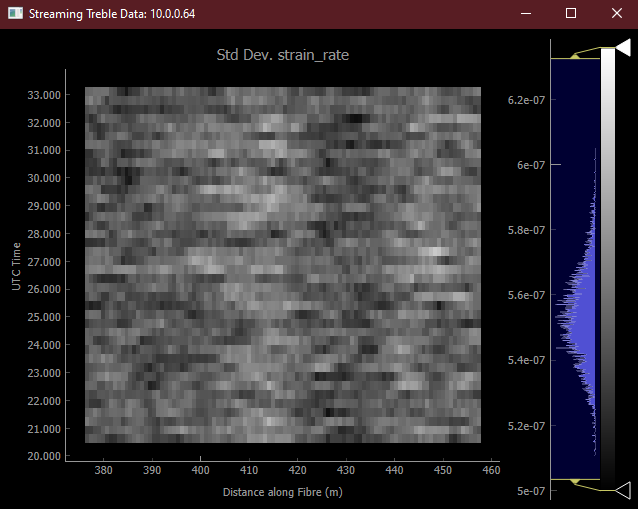
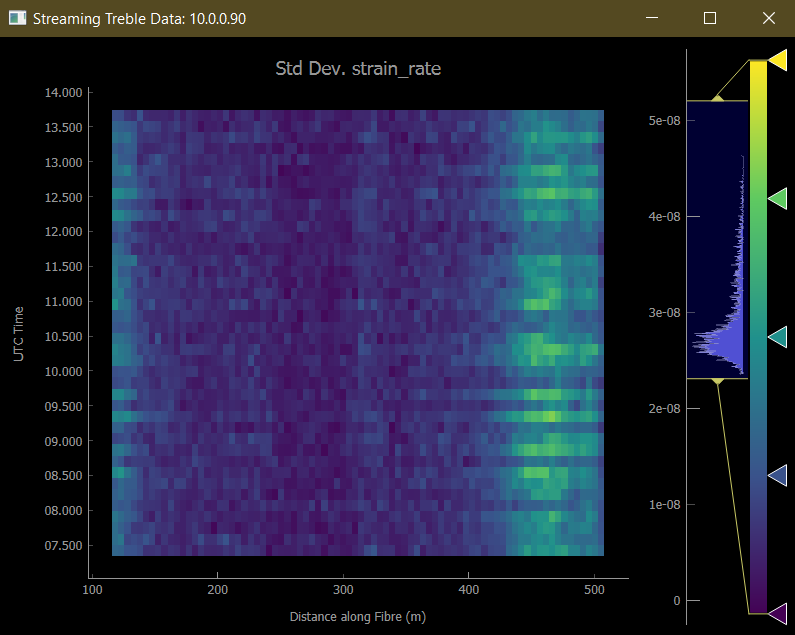
Minor updates to API scripts

diff --git a/API_samples/stream_fft_2d.py b/API_samples/stream_fft_2d.py
@@ -6,7 +6,7 @@ Example script using PYQTGRAPH and Client Functions to plot full raw waveform Te
 ### Pyside6 is preferred.
 
 ### The "treble" API package must be installed to run the Treble API.
-### Download links can be provided by Terra15.
+### Download links are located in the README.md file.
 
 ### SETUP PARAMETERS ################################################################################
 treble_ip = "10.0.0.90"
@@ -58,18 +58,19 @@ def update_plot():
     )
     full = full.reshape((full.shape[0] * full.shape[1], -1)).squeeze()
 
-    f, psd = welch(full, fs=1/md["dT"], nperseg=full.shape[0], axis=0)
-
     if full is None:
         return
+
+    # Calculate Power Spectral Density (PSD)
+    f, psd = welch(full, fs=1/md["dT"], nperseg=full.shape[0], axis=0)
 
     # updates image
     i1.setImage(10*np.log10(psd.transpose()), autoRange=True, autoLevels=inc==0)
 
-    # sets correct time and space axes
+    # sets correct space axis
     x = np.arange(md['nx']) * md["dx"] + md["sensing_range"][0]
 
-    # Sets plot range so that data is centered on t and x axis.
+    # Sets plot range so that data is centered on f and x axis.
     fmin=f[0]
     fmax=f[-1]
     xmin = x[0] - md['dx']/2

diff --git a/API_samples/stream_std_2d.py b/API_samples/stream_std_2d.py
@@ -1,21 +1,21 @@
 """
-Example script using PYQTGRAPH and Client Functions to plot realtime 2D Terra15 Treble RMS data.
+Example script using PYQTGRAPH and Client Functions to plot 2D Treble Std Deviation data.
 """
 
 ### Pyside6, Pyside2, or PyQt5 must be installed for correct display.
 ### Pyside6 is preferred.
 
 ### The "treble" API package must be installed to run the Treble API.
-### Download links can be provided by Terra15.
+### Download links are located in the README.md file.
 
 ### SETUP PARAMETERS ################################################################################
-treble_ip = "10.0.0.70"
+treble_ip = "10.0.0.90"
 server_port = "48000"
 n_frames = 40
 update_rate = 0.16  # (s)
 # Crops data between fibre index
-x_start = 400
-x_stop = 500
+x_start = 20
+x_stop = 100
 ########################################################################################################
 
 
@@ -60,6 +60,7 @@ p1.setLabel("bottom", text="Distance along Fibre", units="m")
 # Add a histogram for color scaling
 hist = pg.HistogramLUTItem()
 hist.setImageItem(i1)
+hist.gradient.loadPreset("viridis")
 win.addItem(hist)
 
 win.show()

diff --git a/API_samples/stream_std_1d.py b/API_samples/stream_std_1d.py
@@ -1,12 +1,12 @@
 """
-Example script using PYQTGRAPH and Client Functions to plot realtime Terra15 Treble Std Dev data.
+Example script using PYQTGRAPH and Client Functions to plot realtime Terra15 Treble Standard Deviation data.
 """
 
 ### Pyside6, Pyside2, or PyQt5 must be installed for correct display.
 ### Pyside6 is preferred.
 
 ### The "treble" API package must be installed to run the Treble API.
-### Download links can be provided by Terra15.
+### Download links are located in the README.md file.
 
 ### SETUP PARAMETERS ################################################################################
 treble_ip = "10.0.0.70"

diff --git a/API_samples/stream_full_waveform.py b/API_samples/stream_full_waveform.py
@@ -6,10 +6,10 @@ Example script using PYQTGRAPH and Client Functions to plot full raw waveform Te
 ### Pyside6 is preferred.
 
 ### The "treble" API package must be installed to run the Treble API.
-### Download links can be provided by Terra15.
+### Download links are located in the README.md file.
 
 ### SETUP PARAMETERS ################################################################################
-treble_ip = "10.0.0.70"
+treble_ip = "10.0.0.90"
 server_port = "48000"
 n_frames = 1
 update_rate = 0.16  # (s)

diff --git a/API_samples/stream_time_series.py b/API_samples/stream_time_series.py
@@ -6,7 +6,7 @@ Example script using PyQTGRAPH and Terra15 Treble client functions to plot the r
 ### Pyside6 is preferred.
 
 ### The "treble" API package must be installed to run the Treble API.
-### Download links can be provided by Terra15.
+### Download links are located in the README.md file.
 
 ### SETUP PARAMETERS ################################################################################
 treble_ip = "10.0.0.225"

diff --git a/API_samples/stream_OTDR.py b/API_samples/stream_OTDR.py
@@ -6,7 +6,7 @@ Example script using PYQTGRAPH and Client Functions to plot realtime Terra15 Tre
 ### Pyside6 is preferred.
 
 ### The "treble" API package must be installed to run the Treble API.
-### Download links can be provided by Terra15.
+### Download links are located in the README.md file.
 
 ### SETUP PARAMETERS ################################################################################
 treble_ip = "10.0.0.70"

diff --git a/API_samples/stream_SNR.py b/API_samples/stream_SNR.py
@@ -6,7 +6,7 @@ Example script using PYQTGRAPH and Client Functions to plot realtime Terra15 Tre
 ### Pyside6 is preferred.
 
 ### The "treble" API package must be installed to run the Treble API.
-### Download links can be provided by Terra15.
+### Download links are located in the README.md file.
 
 ### SETUP PARAMETERS ################################################################################
 treble_ip = "10.0.0.70"

diff --git a/API_samples/stream_fft.py b/API_samples/stream_fft.py
@@ -6,7 +6,7 @@ Example script using PYQTGRAPH and Client Functions to plot realtime Terra15 Tre
 ### Pyside6 is preferred.
 
 ### The "treble" API package must be installed to run the Treble API.
-### Download links can be provided by Terra15.
+### Download links are located in the README.md file.
 
 ### SETUP PARAMETERS ################################################################################
 treble_ip = "10.0.0.70"

diff --git a/API_samples/send_otdr_slack_alert.py b/API_samples/send_otdr_slack_alert.py
@@ -3,7 +3,7 @@ Example script using PYQTGRAPH and Client Functions to send alerts to Slack base
 """
 
 ### The "treble" API package must be installed to run the Treble API.
-### Download links can be provided by Terra15.
+### Download links are located in the README.md file.
 
 ### First create a Slack app to post messages to:
 ### https://api.slack.com/apps
